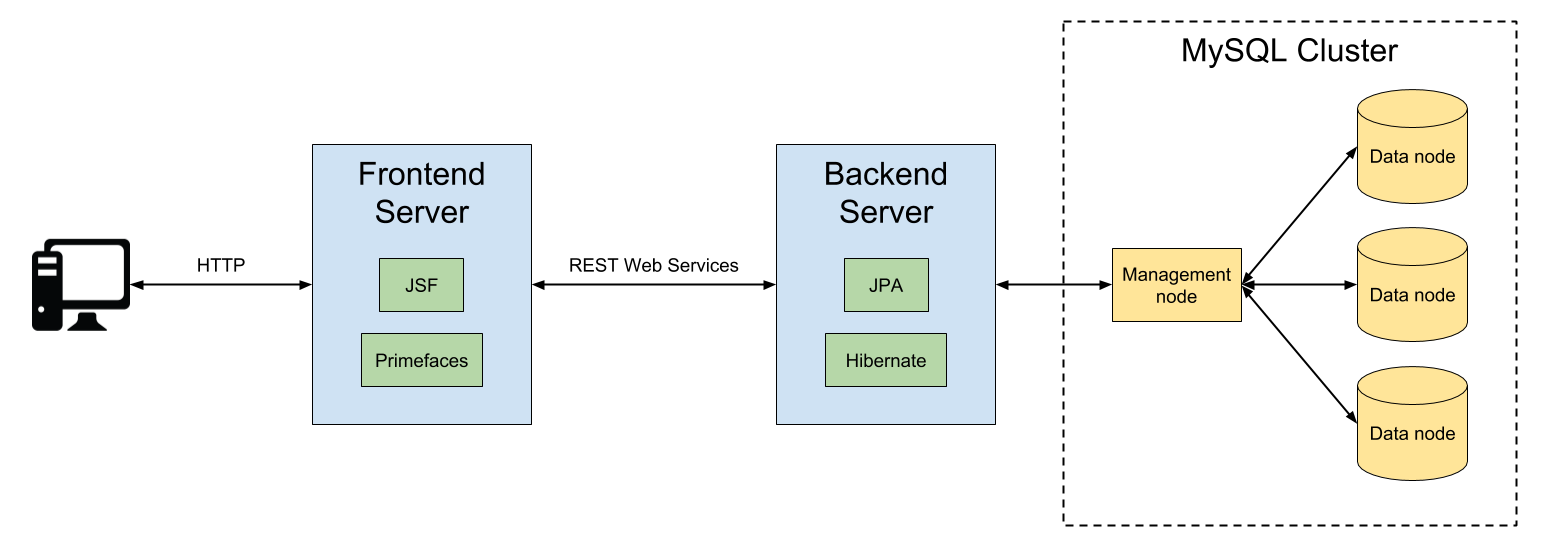
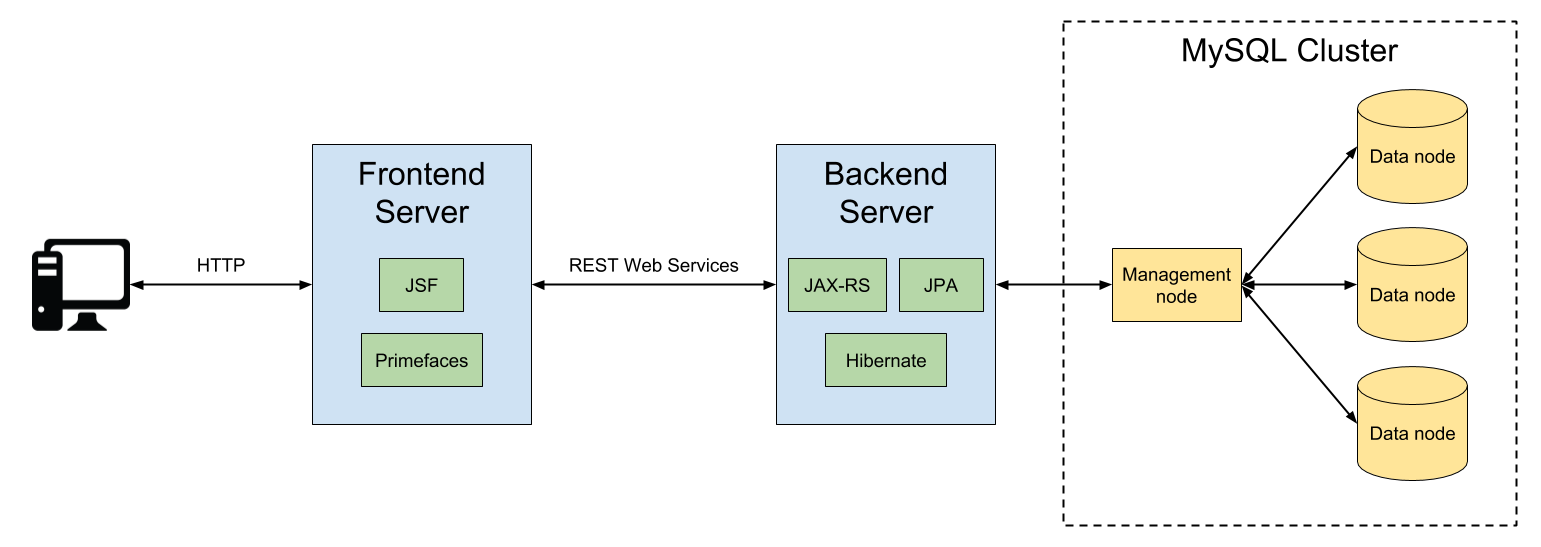
Update architecture in readme and adding comment

Changed region(s): [[0.4984, 0.4662, 0.6541, 0.5905]]

diff --git a/tp-final/contabilidapp-backend/src/main/java/ar/uba/fi/contabilidapp/dao/DaoManager.java b/tp-final/contabilidapp-backend/src/main/java/ar/uba/fi/contabilidapp/dao/DaoManager.java
@@ -16,6 +16,7 @@ import java.util.List;
 
 /**
  * Class for initializing and providing access to all the DAO entities from the app.
+ * Also contains general database operations involving multiple entities.
  */
 public class DaoManager {
 

diff --git a/tp-final/contabilidapp/src/main/java/ar/uba/fi/contabilidapp/dao/DaoManager.java b/tp-final/contabilidapp/src/main/java/ar/uba/fi/contabilidapp/dao/DaoManager.java
@@ -16,6 +16,7 @@ import java.util.List;
 
 /**
  * Class for initializing and providing access to all the DAO entities from the app.
+ * Also contains general database operations involving multiple entities.
  */
 public class DaoManager {
 
